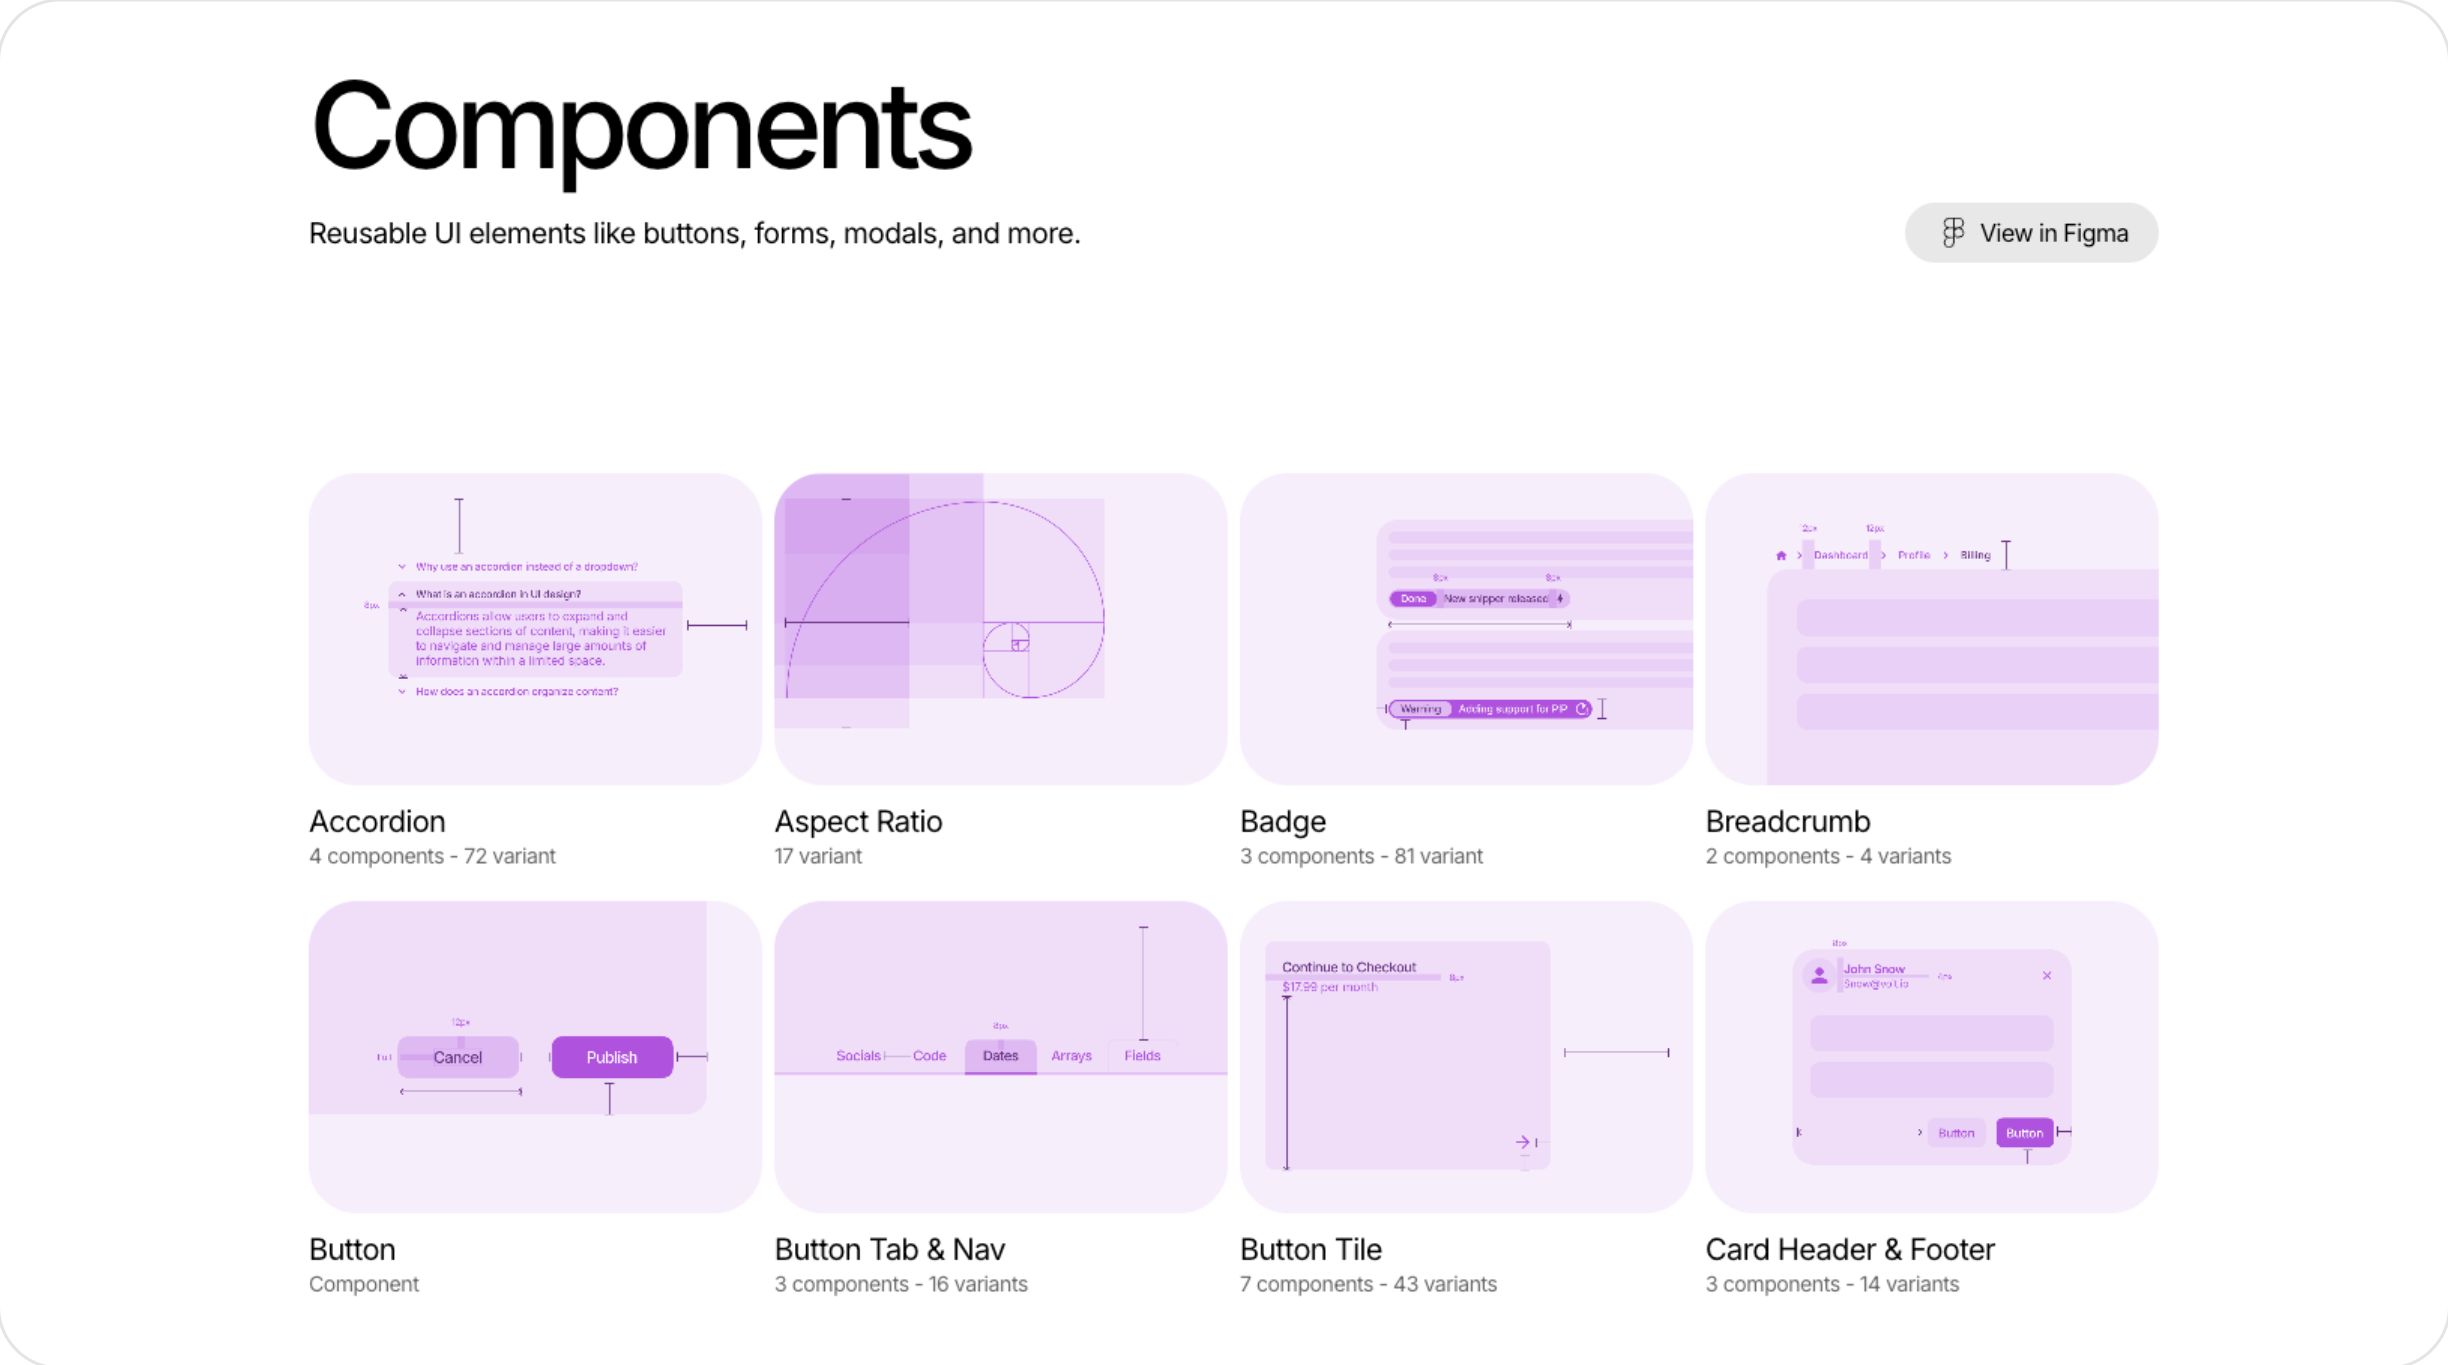
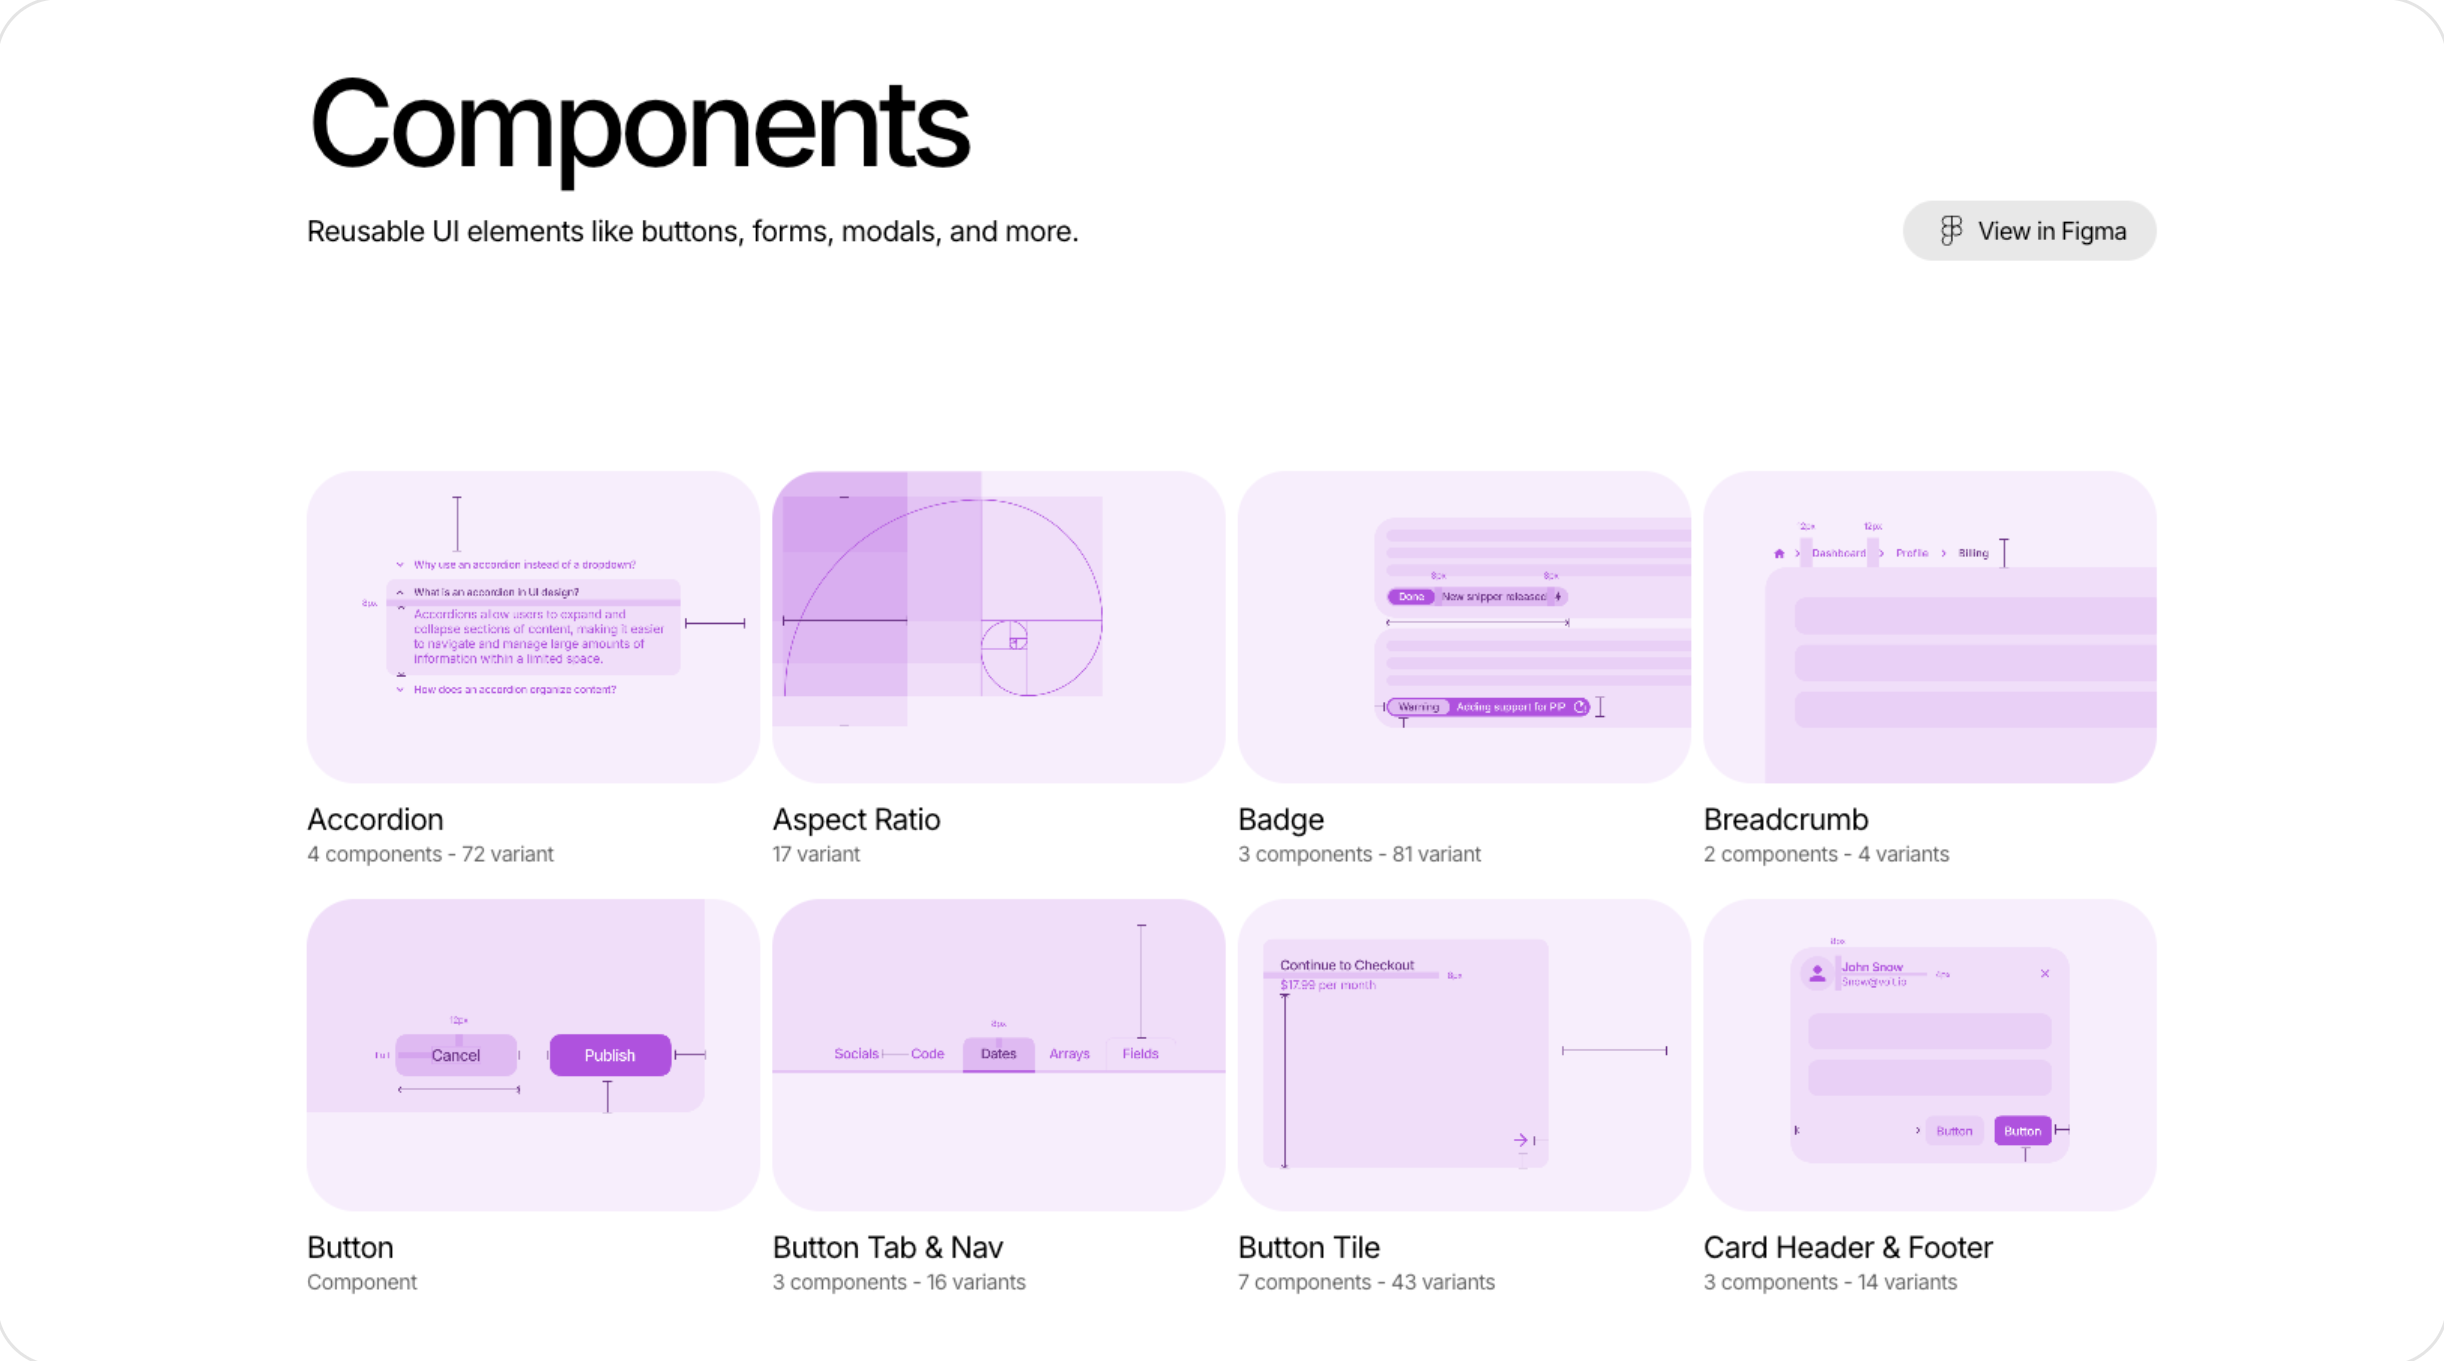
Make Voit case-study web visuals borderless
Two border sources on the four Voit screenshots: the default 0.5px CSS
hairline (bordered not set) and, on three of the PNGs, a baked-in #E4E4E4
ring (2px top on component/blocks, a full 2px ring on
dashboard-block-composition). Set bordered:false on all four to drop the
hairline, and crop the baked rings out of the three PNGs (updating their
ratios to the new dimensions). They now sit flush in the grey mat like the
Orla3 screens. pattern.png needed no crop.

diff --git a/src/lib/case-studies/voit.ts b/src/lib/case-studies/voit.ts
@@ -2,8 +2,8 @@
 // Voit case study - content, mirroring the Paper source of truth
 // ("Turning a design system into something designers could actually build with.").
 // Typography is normalized to PP Neue Montreal to match the other case studies
-// (the Paper frame itself uses Inter). Visual sections carry no captions; one
-// video slot and one surface are placeholders.
+// (the Paper frame itself uses Inter). Each visual carries a short caption; the
+// web screenshots sit borderless in the grey mat (bordered: false).
 // ─────────────────────────────────────────────────────────────────────────────
 import { MetaRow, VisualSection } from "./types";
 
@@ -30,10 +30,10 @@ export const voit = {
   visuals: [
     // Explaining video - compressed and hosted on Cloudinary (q_auto:best) with a poster.
     { kind: "video", src: "https://res.cloudinary.com/jsgwyynr/video/upload/q_auto:best/v1790169248/explaning-video.mp4", poster: "https://res.cloudinary.com/jsgwyynr/video/upload/so_0/v1790169248/explaning-video.jpg", ratio: "16 / 9", caption: "The system in motion, from foundations to finished screens." },
-    { kind: "web", image: { src: "/images/case-studies/voit/component.png", alt: "Voit, Components library" }, ratio: "816 / 455", caption: "The Components library: buttons, inputs, and the building blocks." },
-    { kind: "web", image: { src: "/images/case-studies/voit/blocks.png", alt: "Voit, Blocks library" }, ratio: "816 / 455", caption: "The Blocks layer, full-page compositions across 13 categories." },
-    { kind: "web", image: { src: "/images/case-studies/voit/pattern.png", alt: "Voit, Pattern library: media, navigation, sections, and utilities" }, ratio: "1632 / 816", caption: "Patterns; the media, navigation, and utilities that hold the system together." },
-    { kind: "web", image: { src: "/images/case-studies/voit/dashboard-block-composition.png", alt: "Voit, dashboard block composition" }, ratio: "817 / 453", caption: "Blocks composed into a complete dashboard, end to end." },
+    { kind: "web", image: { src: "/images/case-studies/voit/component.png", alt: "Voit, Components library" }, ratio: "2444 / 1361", bordered: false, caption: "The Components library: buttons, inputs, and the building blocks." },
+    { kind: "web", image: { src: "/images/case-studies/voit/blocks.png", alt: "Voit, Blocks library" }, ratio: "2444 / 1361", bordered: false, caption: "The Blocks layer, full-page compositions across 13 categories." },
+    { kind: "web", image: { src: "/images/case-studies/voit/pattern.png", alt: "Voit, Pattern library: media, navigation, sections, and utilities" }, ratio: "1632 / 816", bordered: false, caption: "Patterns; the media, navigation, and utilities that hold the system together." },
+    { kind: "web", image: { src: "/images/case-studies/voit/dashboard-block-composition.png", alt: "Voit, dashboard block composition" }, ratio: "2447 / 1355", bordered: false, caption: "Blocks composed into a complete dashboard, end to end." },
   ] as VisualSection[],
 
   next: { label: "Next Case Study", href: "/work/orla3" },
